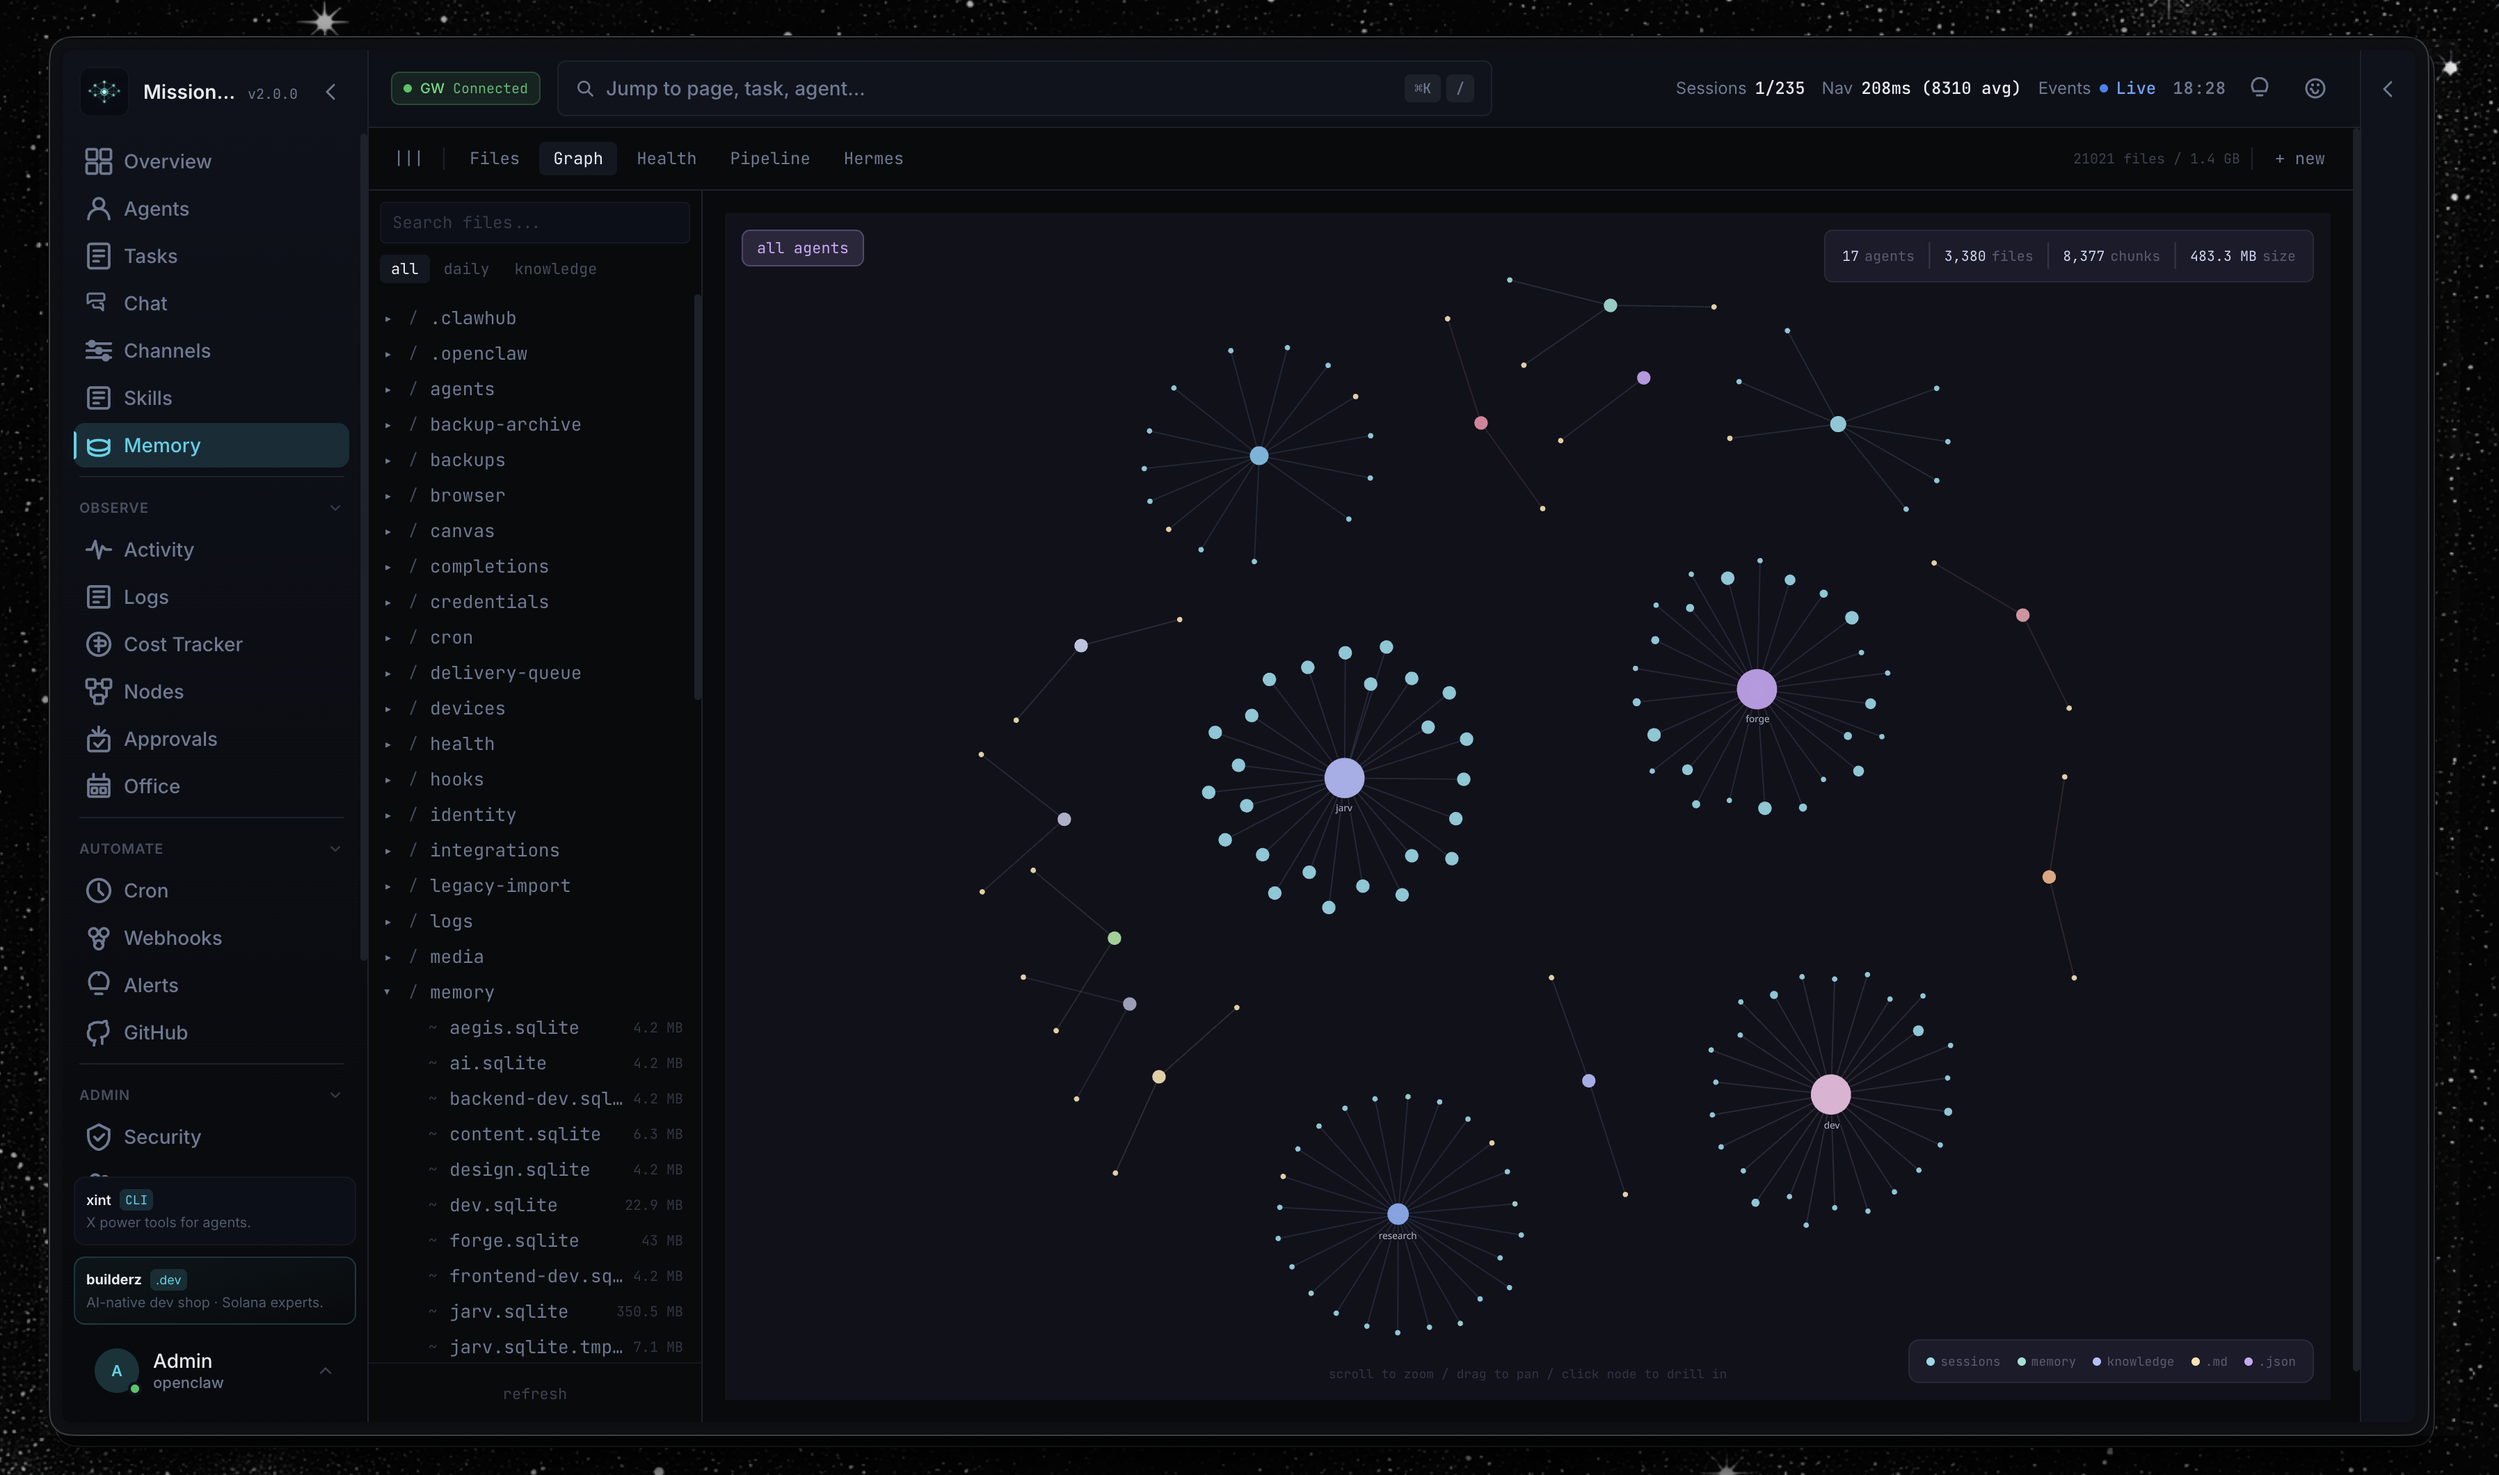
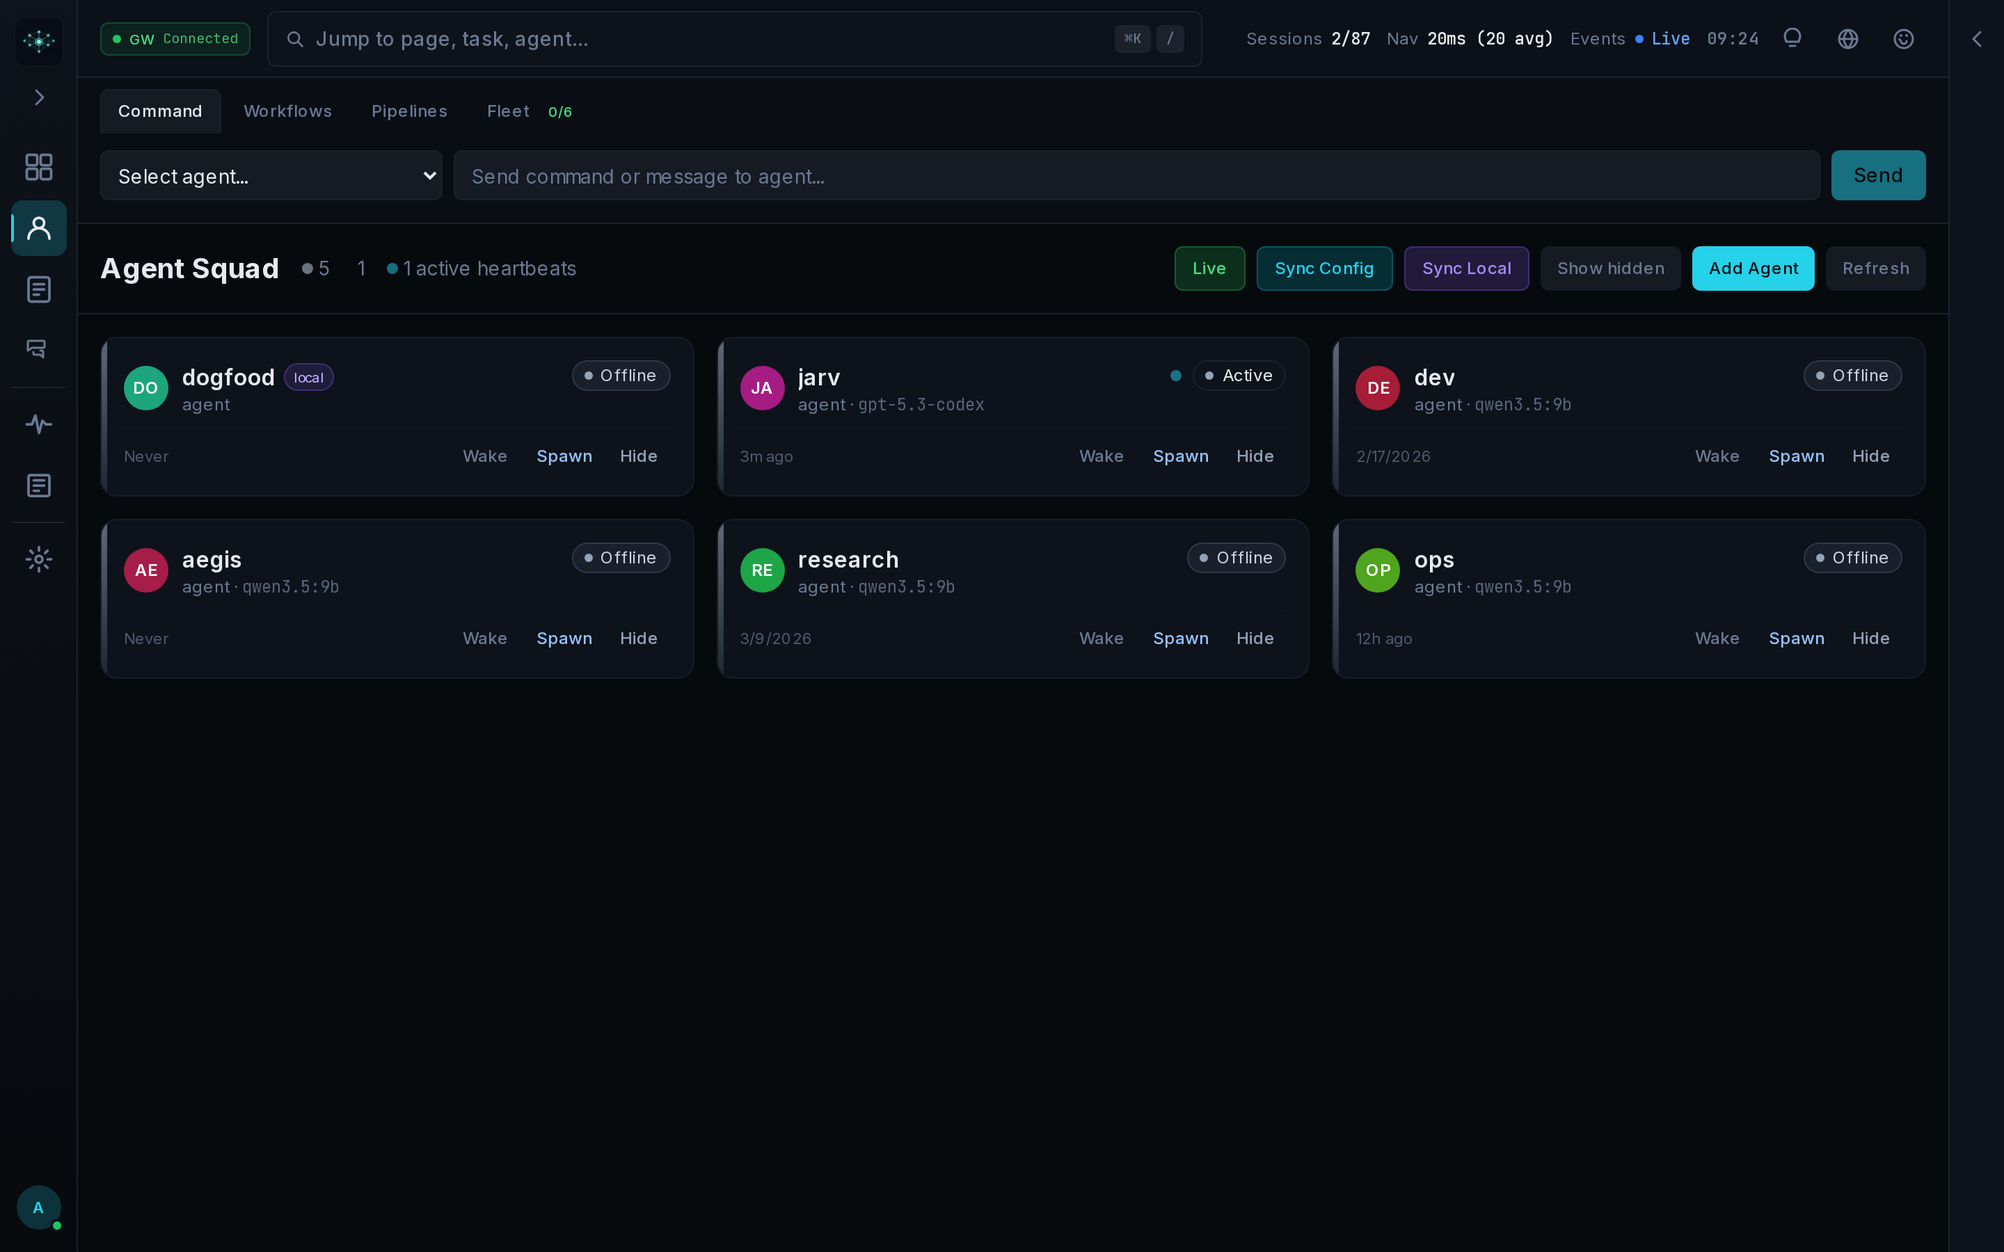
docs: enhance README with screenshots and best-practice structure (#488)
* fix: swap mismatched agent/memory screenshots

mission-control-agents.png actually shows the memory graph,
mission-control-memory-graph.png actually shows the agent squad.
Swapped references to match content.

* docs: add screenshots for all major panels

Captured fresh Playwright screenshots for Tasks, Skills, Memory,
Cost Tracking, Security, Cron, and Activity panels. Updated README
to reference all new screenshots inline with their feature sections.

diff --git a/scripts/take-screenshots.ts b/scripts/take-screenshots.ts
@@ -1,0 +1,95 @@
+import { chromium } from '@playwright/test';
+import path from 'path';
+
+const BASE_URL = 'http://localhost:3100';
+const USERNAME = 'admin';
+const PASSWORD = 'mc-screenshots-2026';
+const OUTPUT_DIR = path.join(__dirname, '..', 'docs');
+
+const PANELS: [string, string][] = [
+  ['Overview', 'mission-control-overview'],
+  ['Agents', 'mission-control-agents'],
+  ['Tasks', 'mission-control-tasks'],
+  ['Skills', 'mission-control-skills'],
+  ['Memory', 'mission-control-memory'],
+  ['Cost Tracker', 'mission-control-cost-tracking'],
+  ['Security', 'mission-control-security'],
+  ['Cron', 'mission-control-cron'],
+  ['Activity', 'mission-control-activity'],
+];
+
+async function main() {
+  const browser = await chromium.launch({ headless: true });
+  const ctx = await browser.newContext({
+    viewport: { width: 1440, height: 900 },
+    deviceScaleFactor: 2,
+    colorScheme: 'dark',
+  });
+  const page = await ctx.newPage();
+
+  // Login
+  console.log('Logging in...');
+  await page.goto(`${BASE_URL}/login`, { waitUntil: 'networkidle', timeout: 20000 });
+  await page.waitForSelector('#username', { timeout: 10000 });
+  await page.fill('#username', USERNAME);
+  await page.fill('#password', PASSWORD);
+  await Promise.all([
+    page.waitForResponse(r => r.url().includes('/api/auth/login'), { timeout: 10000 }),
+    page.click('button[type="submit"]'),
+  ]);
+  await page.waitForTimeout(5000);
+  console.log(`  URL: ${page.url()}`);
+
+  // Dismiss onboarding
+  for (const text of ['Skip setup', 'Get Started', 'Skip', 'Dismiss', 'Close']) {
+    const btn = page.locator(`button:has-text("${text}")`).first();
+    if (await btn.isVisible({ timeout: 1000 }).catch(() => false)) {
+      await btn.click();
+      console.log(`  Dismissed: "${text}"`);
+      await page.waitForTimeout(1500);
+    }
+  }
+  await page.waitForTimeout(2000);
+
+  // Capture each panel using button[title="Label"] selectors
+  console.log('Capturing panels...');
+  for (const [label, filename] of PANELS) {
+    // Nav buttons in collapsed sidebar have title="{label}"
+    // Some may be below the fold — scroll them into view first
+    const navBtn = page.locator(`button[title="${label}"]`).first();
+    try {
+      await navBtn.scrollIntoViewIfNeeded({ timeout: 2000 });
+      await navBtn.click({ timeout: 2000 });
+      await page.waitForTimeout(3000);
+      console.log(`  OK: ${filename}.png`);
+    } catch {
+      // Fallback: try expanded sidebar text or force-evaluate click
+      try {
+        await page.evaluate((lbl) => {
+          const btns = document.querySelectorAll('button');
+          for (const btn of btns) {
+            if (btn.getAttribute('title') === lbl || btn.textContent?.trim() === lbl) {
+              btn.click();
+              return true;
+            }
+          }
+          return false;
+        }, label);
+        await page.waitForTimeout(3000);
+        console.log(`  OK (eval): ${filename}.png`);
+      } catch {
+        console.log(`  MISS: ${label}`);
+      }
+    }
+
+    await page.screenshot({
+      path: path.join(OUTPUT_DIR, `${filename}.png`),
+      fullPage: false,
+    });
+  }
+
+  await browser.close();
+  console.log('Done!');
+}
+
+main().catch(console.error);

diff --git a/README.md b/README.md
@@ -153,23 +153,31 @@ Monitor agent status, configure models, view heartbeats, and manage the full age
 
 Kanban board with six columns (inbox → assigned → in progress → review → quality review → done), drag-and-drop, priority levels, assignments, threaded comments, and inline sub-agent spawning. Multi-project support with per-project ticket prefixes.
 
+![Mission Control Tasks Panel](docs/mission-control-tasks.png)
+
 ### Memory Knowledge Graph
 
 Explore agent knowledge through the Memory Browser, filesystem-backed memory tree, and interactive relationship graph for sessions, memory chunks, and linked knowledge files.
 
-![Mission Control Memory Graph](docs/mission-control-memory-graph.png)
+![Mission Control Memory Panel](docs/mission-control-memory.png)
 
 ### Skills Hub
 
 Browse, install, and manage agent skills from local directories and external registries (ClawdHub, skills.sh). Built-in security scanner checks for prompt injection, credential leaks, data exfiltration, obfuscated content, and dangerous shell commands before installation. Supports 5 skill roots across `~/.agents/skills`, `~/.codex/skills`, project-local directories, and `~/.openclaw/skills`.
 
+![Mission Control Skills Panel](docs/mission-control-skills.png)
+
 ### Cost Tracking
 
 Token usage dashboard with per-model breakdowns, trend charts, and cost analysis. Session-level granularity powered by Recharts.
 
+![Mission Control Cost Tracking](docs/mission-control-cost-tracking.png)
+
 ### Security Audit & Agent Trust
 
 Real-time posture scoring (0-100), secret detection across agent messages, MCP tool call auditing, injection attempt tracking, and per-agent trust scores. Hook profiles (minimal/standard/strict) let operators tune security strictness per deployment.
+
+![Mission Control Security Panel](docs/mission-control-security.png)
 
 ### Agent Eval Framework
 
@@ -179,11 +187,19 @@ Four-layer evaluation: output evals (task completion scoring against golden data
 
 Create recurring tasks with natural language like "every morning at 9am" or "every 2 hours". The built-in schedule parser converts expressions to cron and stores them in task metadata. A template-clone pattern keeps the original as a template and spawns dated child tasks on schedule.
 
+![Mission Control Cron Panel](docs/mission-control-cron.png)
+
 ### Claude Code Integration
 
 - **Session Tracking** — Auto-discovers local Claude Code sessions from `~/.claude/projects/`, extracts token usage, model info, cost estimates, and active status.
 - **Task Bridge** — Read-only scanner surfaces team tasks and configs from `~/.claude/tasks/` and `~/.claude/teams/` on the dashboard.
 - **Direct CLI** — Connect Claude Code, Codex, or any CLI tool directly without requiring a gateway.
+
+### Activity Feed
+
+Real-time activity stream across all agents, tasks, and system events. Filter by event type, agent, or time range.
+
+![Mission Control Activity Panel](docs/mission-control-activity.png)
 
 ### Integrations
 
